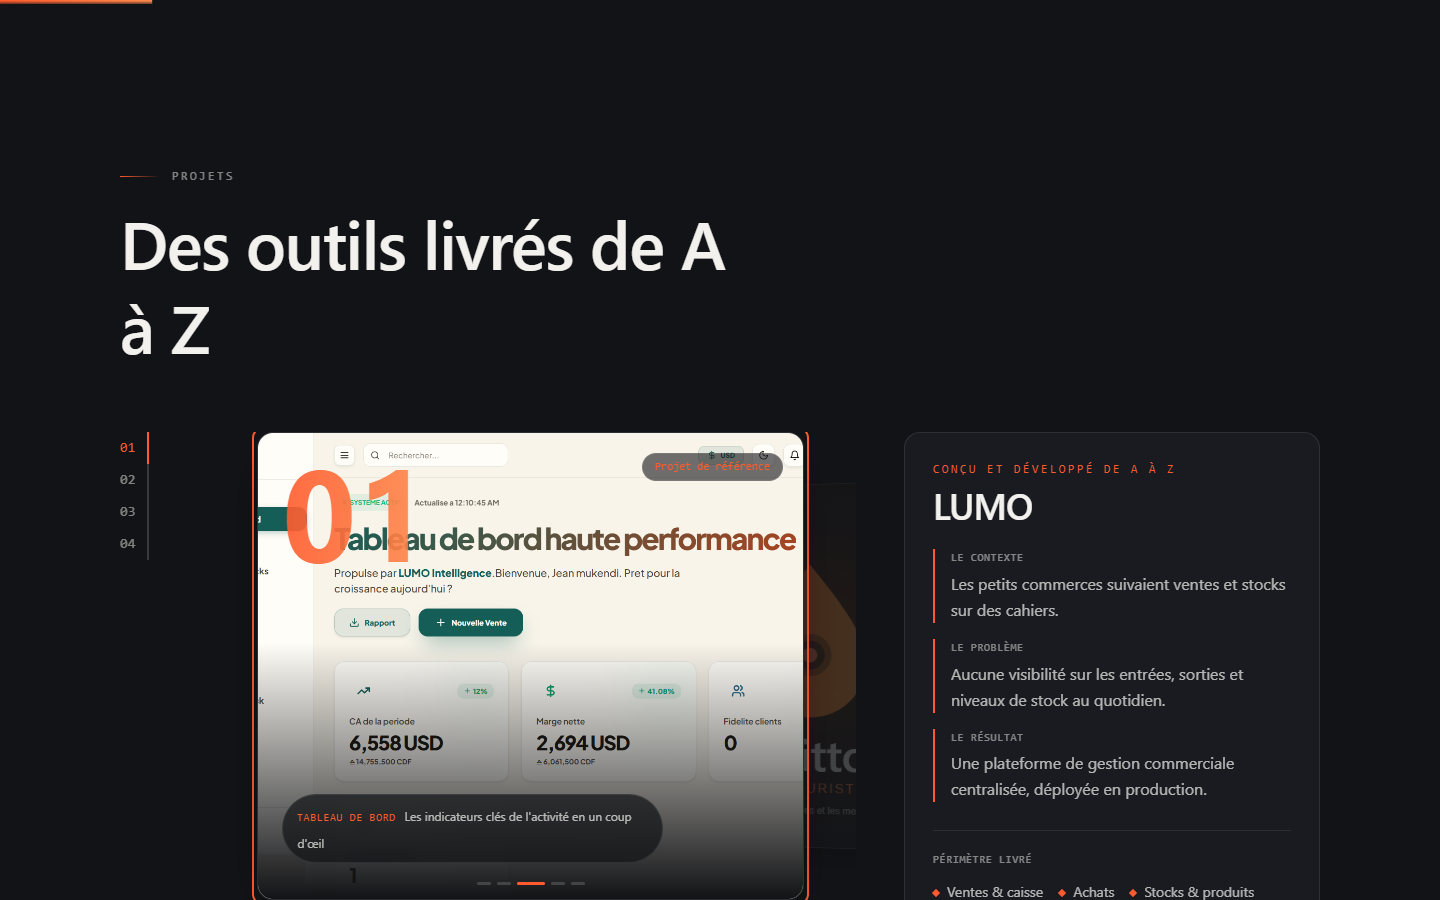
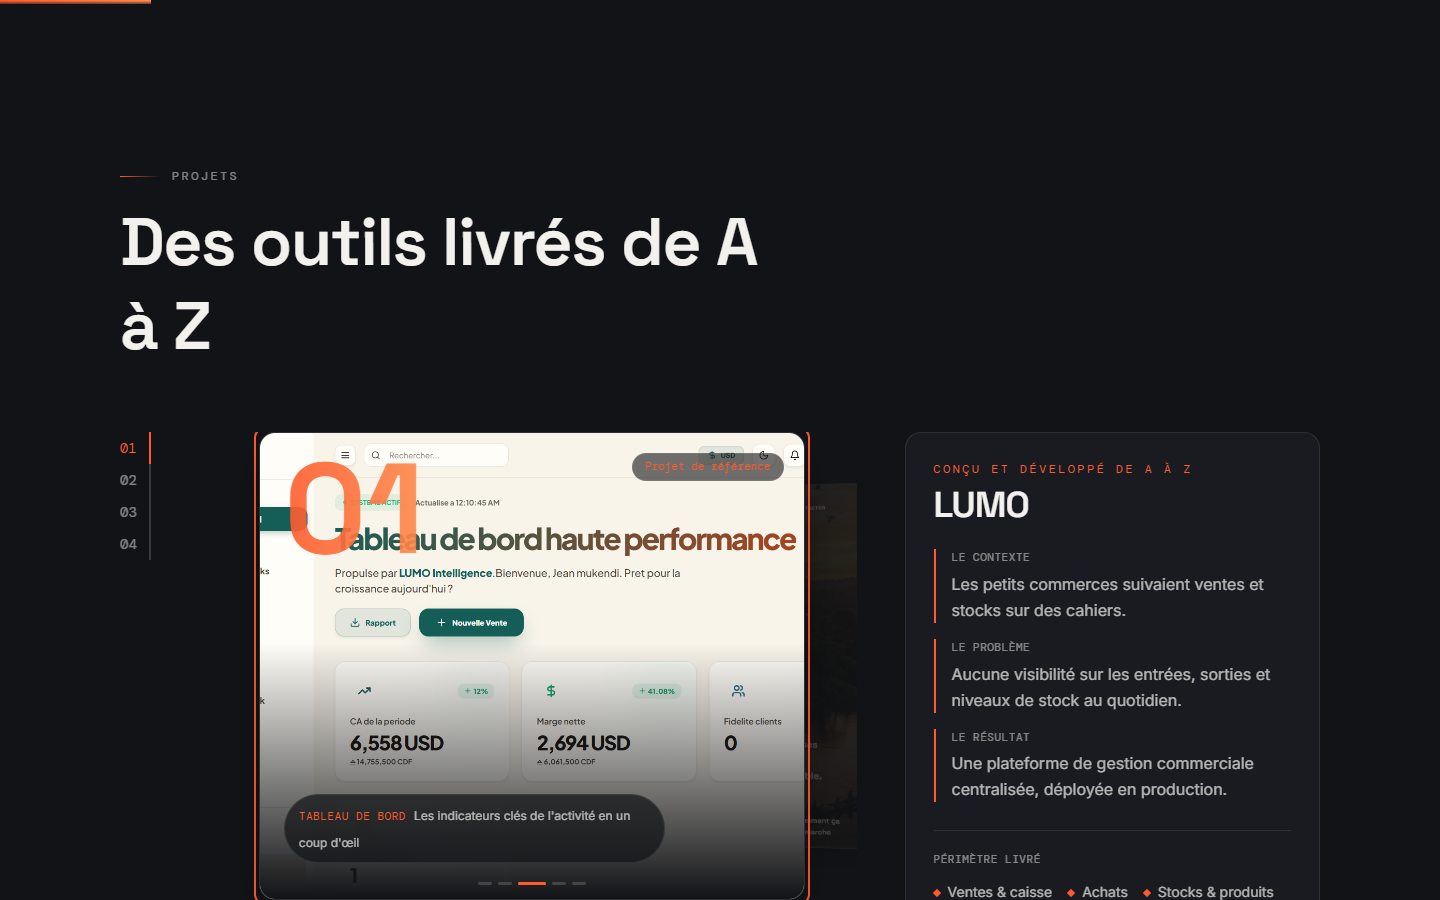
fix(showcase): vues détaillées — overlay en portail + dossier split-screen
Le vrai bug des vues détaillées « nulles » : la section Projets est
enveloppée dans SectionReveal (will-change: transform) — un ancêtre
transformé devient le conteneur des éléments fixed, l'overlay était
donc dimensionné sur la SECTION (1435px mesurés) au lieu du viewport :
fond partiel, panneau flottant, tout défilait avec la section.

- DetailOverlay rendu en PORTAIL React vers document.body : plein écran
  réel (conteneur 900px vérifié), fond total, panel parfaitement centré
- composition repensée : dossier split-screen — média à gauche (remplit
  la hauteur, object-contain lisible en entier, grands chevrons, légende
  + pagination + compteur posés), colonne éditoriale à droite (étude
  01/04, rôle, titre, chips, périmètre en liste fine, CTA, navigation
  projet ↔ projet en bas)
- fix centrage mobile : place-items safe center (sinon le haut du média
  et la fermeture sont inatteignables quand le panneau dépasse l'écran)
- clés React uniques (media-*/info-*), focus gardé une fois (StrictMode),
  Escape, flèches, reduced-motion : tout conservé
- QA : project-qa 15/15 (2 runs stables) + vérifications visuelles
  desktop/mobile du dossier ouvert

diff --git a/src/components/projects/DetailOverlay.jsx b/src/components/projects/DetailOverlay.jsx
@@ -1,21 +1,34 @@
 import { useEffect, useRef } from 'react'
+import { createPortal } from 'react-dom'
 import { AnimatePresence, motion, useReducedMotion } from 'framer-motion'
 
 const EASE = [0.22, 1, 0.36, 1]
 
 /**
- * DetailOverlay — vue détaillée « étude de cas », présentation cinématique.
+ * DetailOverlay — vue détaillée « dossier », split-screen.
  *
- * Continuité spatiale (§36) : le média partage un `layoutId` avec la slide
- * de la scène — l'image cliquée s'agrandit réellement, aucune modale ne
- * « apparaît ». À l'intérieur : média héroïque (62 vh, object-contain pour
- * les interfaces — lisibles en entier), légendes + pagination + compteur
- * sur le média, corps éditorial typographique (zéro boîte dans la boîte),
- * CTA existants, et navigation projet ↔ projet en grands panneaux (§37).
+ * Composition clairement différente : un grand panneau centré, le MÉDIA à
+ * gauche (remplit la hauteur du dossier) et les INFORMATIONS à droite en
+ * colonne éditoriale — comme une page produit, pas une modale empilée.
+ * Mobile : empilé (média en haut, infos en dessous, défilement).
  *
- * Accessibilité : dialog aria-modal, focus posé au bouton fermer puis
+ * Continuité spatiale : le média partage un `layoutId` avec la slide de la
+ * scène — l'image cliquée s'agrandit réellement. À l'intérieur : galerie
+ * complète des vues (object-contain pour les interfaces — lisibles en
+ * entier), légendes + pagination + compteur sur le média, navigation
+ * projet ↔ projet en bas du dossier (§37).
+ *
+ * Accessibilité : dialog aria-modal, focus posé sur la fermeture puis
  * restitué au déclencheur (garde StrictMode), Escape ferme, flèches = vues,
- * scroll verrouillé. Reduced-motion : transitions à 0 (rendu instantané).
+ * scroll verrouillé. Reduced-motion : transitions à 0.
+ * Clés React uniques entre frères (préfixes « media- » et « info- ») :
+ * la réconciliation reste prévisible, l'exit d'AnimatePresence se résout.
+ *
+ * RENDU EN PORTAIL vers document.body : la section Projets est enveloppée
+ * dans SectionReveal qui anime des transforms (will-change) — un ancêtre
+ * transformé devient le conteneur des éléments fixed, l'overlay serait
+ * dimensionné sur la section au lieu du viewport. Le portail le sort de
+ * cet arbre : plein écran réel, fond total.
  */
 export default function DetailOverlay({ projects, idx, view, onView, onGo, onClose, sourceProject }) {
   const reduced = useReducedMotion()
@@ -60,7 +73,7 @@ export default function DetailOverlay({ projects, idx, view, onView, onGo, onClo
   const prevP = projects[(idx - 1 + total) % total]
   const nextP = projects[(idx + 1) % total]
 
-  return (
+  return createPortal(
     <motion.div
       role="dialog"
       aria-modal="true"
@@ -80,37 +93,38 @@ export default function DetailOverlay({ projects, idx, view, onView, onGo, onClo
         aria-hidden="true"
       />
 
-      {/* présentation défilante */}
-      <div className="fixed inset-0 overflow-y-auto overscroll-contain">
-        <div className="mx-auto w-[min(1150px,94vw)] pb-16 pt-[4vh]">
-          {/* barre haute : étude + fermeture */}
-          <div className="flex items-center justify-between gap-4 pb-5">
-            <p className="font-mono text-[11px] uppercase tracking-[0.25em] t-text3">
-              Étude de cas <span className="mx-1 t-accent">{p.n}</span>/ 0{total}
-            </p>
-            <button
-              ref={closeRef}
-              type="button"
-              onClick={onClose}
-              aria-label="Fermer la vue détaillée"
-              className="grid h-11 w-11 place-items-center rounded-full border transition-colors hover:t-accent"
-              style={{ borderColor: 'var(--border-strong)', background: 'color-mix(in srgb, var(--bg) 70%, transparent)', color: 'var(--text)' }}
-            >
-              <i className="fa-solid fa-xmark text-base" aria-hidden="true" />
-            </button>
-          </div>
+      {/* le dossier — « safe center » : le centrage retombe sur « start »
+          quand le contenu dépasse l'écran (mobile), sinon le haut du média
+          et la fermeture deviennent inatteignables (scroll impossible) */}
+      <div className="fixed inset-0 grid [place-items:safe_center] overflow-y-auto overscroll-contain p-3 md:p-8">
+        <motion.div
+          key={'panel-' + p.n}
+          initial={{ opacity: 0, y: reduced ? 0 : 26 }}
+          animate={{ opacity: 1, y: 0 }}
+          exit={{ opacity: 0 }}
+          transition={{ duration: 0.45, ease: EASE }}
+          className="relative grid h-[min(88vh,780px)] w-full max-w-[1100px] grid-rows-[auto_1fr] overflow-hidden rounded-3xl border-[1.5px] t-border t-surface t-shadow-lg max-lg:h-auto max-lg:max-h-none lg:grid-cols-[1.15fr_0.85fr] lg:grid-rows-1"
+        >
+          {/* fermeture — flotte au-dessus du dossier, toujours accessible */}
+          <button
+            ref={closeRef}
+            type="button"
+            onClick={onClose}
+            aria-label="Fermer la vue détaillée"
+            className="absolute right-4 top-4 z-[4] grid h-11 w-11 place-items-center rounded-full border backdrop-blur-md transition-colors hover:t-accent"
+            style={{ borderColor: 'var(--border-strong)', background: 'color-mix(in srgb, var(--bg) 68%, transparent)', color: 'var(--text)' }}
+          >
+            <i className="fa-solid fa-xmark text-base" aria-hidden="true" />
+          </button>
 
-          {/* média cinématique — cible du FLIP (uniquement pour le projet
-              d'origine : changer de projet DANS la vue donne une transition
-              slide, pas un vol parasite) */}
+          {/* MÉDIA — à gauche (desktop) / en haut (mobile) ; cible du FLIP */}
           <motion.div
-            key={p.n}
+            key={'media-' + p.n}
             layoutId={p.n === sourceProject ? 'project-media-' + p.n : undefined}
-            initial={p.n === sourceProject ? { opacity: 0.5 } : { opacity: 0, x: reduced ? 0 : 42 }}
-            animate={{ opacity: 1, x: 0 }}
-            exit={p.n === sourceProject ? undefined : { opacity: 0, x: reduced ? 0 : 28 }}
+            initial={p.n === sourceProject ? { opacity: 0.5 } : { opacity: 0 }}
+            animate={{ opacity: 1 }}
             transition={{ duration: reduced ? 0 : 0.5, ease: EASE }}
-            className="group relative h-[62vh] min-h-[420px] overflow-hidden rounded-3xl border-[1.5px] t-border t-surface t-shadow-lg"
+            className="group relative h-[46vh] min-h-[300px] overflow-hidden max-lg:rounded-b-none lg:h-auto lg:min-h-0"
           >
             <div className="absolute inset-0 transition-transform duration-[900ms] ease-out group-hover:scale-[1.02]">
               <AnimatePresence mode="popLayout" initial={false}>
@@ -119,42 +133,40 @@ export default function DetailOverlay({ projects, idx, view, onView, onGo, onClo
                   src={v.src}
                   alt={p.alt}
                   draggable={false}
-                  initial={{ opacity: 0, x: 34 }}
+                  initial={{ opacity: 0, x: 30 }}
                   animate={{ opacity: 1, x: 0 }}
-                  exit={{ opacity: 0, x: -34 }}
+                  exit={{ opacity: 0, x: -30 }}
                   transition={{ duration: reduced ? 0 : 0.34, ease: EASE }}
                   className={
                     'absolute inset-0 h-full w-full ' +
-                    (v.fit === 'contain' ? 'object-contain p-5 md:p-9' : 'object-cover object-top')
+                    (v.fit === 'contain' ? 'object-contain p-4 md:p-7' : 'object-cover object-top')
                   }
                 />
               </AnimatePresence>
             </div>
 
-            {/* dégradé de lisibilité en bas du média */}
-            <div className="absolute inset-x-0 bottom-0 h-40" style={{ background: 'linear-gradient(180deg, transparent, var(--bg) 92%)' }} aria-hidden="true" />
+            {/* dégradé de lisibilité + chrome de galerie */}
+            <div className="absolute inset-x-0 bottom-0 h-32" style={{ background: 'linear-gradient(180deg, transparent, var(--bg) 92%)' }} aria-hidden="true" />
 
-            {/* chevrons de vues — toujours visibles : c'est une galerie */}
             {vs.length > 1 &&
               [
-                { label: 'Vue précédente', fn: () => onView((view - 1 + vs.length) % vs.length), icon: 'fa-chevron-left', pos: 'left-4' },
-                { label: 'Vue suivante', fn: () => onView((view + 1) % vs.length), icon: 'fa-chevron-right', pos: 'right-4' },
+                { label: 'Vue précédente', fn: () => onView((view - 1 + vs.length) % vs.length), icon: 'fa-chevron-left', pos: 'left-3' },
+                { label: 'Vue suivante', fn: () => onView((view + 1) % vs.length), icon: 'fa-chevron-right', pos: 'right-3' },
               ].map((b) => (
                 <button
                   key={b.label}
                   type="button"
                   onClick={b.fn}
                   aria-label={b.label}
-                  className={`absolute ${b.pos} top-1/2 z-[2] grid h-12 w-12 -translate-y-1/2 place-items-center rounded-full border backdrop-blur-md transition-all duration-300 hover:scale-105 hover:t-accent focus-visible:outline-2 focus-visible:outline-[var(--accent)] max-md:opacity-90`}
+                  className={`absolute ${b.pos} top-1/2 z-[2] grid h-11 w-11 -translate-y-1/2 place-items-center rounded-full border backdrop-blur-md transition-all duration-300 hover:scale-105 hover:t-accent focus-visible:outline-2 focus-visible:outline-[var(--accent)] max-md:opacity-90`}
                   style={{ borderColor: 'var(--border-strong)', background: 'color-mix(in srgb, var(--bg) 55%, transparent)', color: 'var(--text)' }}
                 >
                   <i className={`fa-solid ${b.icon}`} aria-hidden="true" />
                 </button>
               ))}
 
-            {/* légende + pagination + compteur, posés sur le média */}
             {vs.length > 1 && (
-              <div className="absolute inset-x-0 bottom-0 z-[2] flex items-end justify-between gap-6 p-5 md:p-7">
+              <div className="absolute inset-x-0 bottom-0 z-[2] flex items-end justify-between gap-5 p-4 md:p-5">
                 <AnimatePresence mode="wait" initial={false}>
                   <motion.div
                     key={v.label}
@@ -166,10 +178,10 @@ export default function DetailOverlay({ projects, idx, view, onView, onGo, onClo
                     className="min-w-0"
                   >
                     <span className="font-mono text-[11px] uppercase tracking-[0.18em] t-accent">{v.label}</span>
-                    <p className="mt-1 truncate text-[14px] t-text2">{v.note}</p>
+                    <p className="mt-0.5 truncate text-[13px] t-text2">{v.note}</p>
                   </motion.div>
                 </AnimatePresence>
-                <div className="flex shrink-0 flex-col items-end gap-2">
+                <div className="flex shrink-0 flex-col items-end gap-1.5">
                   <div className="flex items-center gap-1.5" aria-hidden="true">
                     {vs.map((_, i) => (
                       <button
@@ -178,7 +190,7 @@ export default function DetailOverlay({ projects, idx, view, onView, onGo, onClo
                         tabIndex={-1}
                         onClick={() => onView(i)}
                         data-testid={`view-seg-${i}`}
-                        className={`h-[3px] rounded-full transition-all duration-300 ${i === view ? 'w-8' : 'w-4 hover:w-6'}`}
+                        className={`h-[3px] rounded-full transition-all duration-300 ${i === view ? 'w-7' : 'w-4 hover:w-6'}`}
                         style={{ background: i === view ? 'var(--accent)' : 'var(--border-strong)' }}
                       />
                     ))}
@@ -191,76 +203,77 @@ export default function DetailOverlay({ projects, idx, view, onView, onGo, onClo
             )}
           </motion.div>
 
-          {/* corps éditorial — typographique, zéro boîte dans la boîte */}
+          {/* INFORMATIONS — colonne éditoriale à droite, défile si besoin */}
           <motion.div
-            key={'panel-' + p.n}
-            initial={{ opacity: 0, y: reduced ? 0 : 20 }}
-            animate={{ opacity: 1, y: 0 }}
-            transition={{ duration: 0.5, ease: EASE, delay: reduced ? 0 : 0.18 }}
-            className="mt-10 grid gap-10 lg:grid-cols-[1.15fr_0.85fr] lg:gap-14"
+            key={'info-' + p.n}
+            initial={{ opacity: 0, x: reduced ? 0 : 28 }}
+            animate={{ opacity: 1, x: 0 }}
+            transition={{ duration: 0.5, ease: EASE, delay: reduced ? 0 : 0.14 }}
+            className="flex min-h-0 flex-col overflow-y-auto p-6 md:p-9 max-lg:rounded-t-none"
           >
-            <div>
-              <p className="font-mono text-xs uppercase tracking-[0.2em] t-coral">{p.role}</p>
-              <h2 className="mt-3 font-display text-[clamp(2.4rem,5vw,3.6rem)] font-semibold leading-[1.05] tracking-tight t-text" style={{ letterSpacing: '-0.02em' }}>
-                {p.title}
-              </h2>
-              <p className="mt-6 text-lg leading-relaxed t-text2">{p.result}</p>
-              <div className="mt-7 flex flex-wrap gap-2">
-                {p.stack.map((s) => (
-                  <span key={s} className="rounded-full border px-3 py-1 font-mono text-[12px] t-text2" style={{ borderColor: 'var(--border)' }}>{s}</span>
-                ))}
-              </div>
+            <p className="font-mono text-[11px] uppercase tracking-[0.25em] t-text3">
+              Étude de cas <span className="mx-1 t-accent">{p.n}</span>/ 0{total}
+            </p>
+
+            <p className="mt-7 font-mono text-xs uppercase tracking-[0.2em] t-coral">{p.role}</p>
+            <h2 className="mt-2 font-display text-[clamp(2rem,3.4vw,3rem)] font-semibold leading-[1.05] tracking-tight t-text" style={{ letterSpacing: '-0.02em' }}>
+              {p.title}
+            </h2>
+            <p className="mt-5 leading-relaxed t-text2">{p.result}</p>
+
+            <div className="mt-6 flex flex-wrap gap-2">
+              {p.stack.map((s) => (
+                <span key={s} className="rounded-full border px-3 py-1 font-mono text-[12px] t-text2" style={{ borderColor: 'var(--border)' }}>{s}</span>
+              ))}
             </div>
-            <div>
+
+            <div className="mt-8">
               <p className="font-mono text-[11px] uppercase tracking-[0.25em] t-text3">Périmètre livré</p>
-              <ul className="mt-2">
+              <ul className="mt-1">
                 {p.scope.map((s) => (
-                  <li key={s} className="flex items-center gap-3 border-b py-3 text-[15px] t-text2" style={{ borderColor: 'var(--border)' }}>
+                  <li key={s} className="flex items-center gap-3 border-b py-2.5 text-[15px] t-text2" style={{ borderColor: 'var(--border)' }}>
                     <span aria-hidden="true" className="h-1.5 w-1.5 shrink-0 rotate-45" style={{ background: 'var(--accent)' }} />
                     {s}
                   </li>
                 ))}
               </ul>
-              <a
-                href={p.href}
-                target={p.external ? '_blank' : undefined}
-                rel={p.external ? 'noreferrer' : undefined}
-                data-cursor={p.external ? 'Ouvrir' : 'Découvrir'}
-                className="cta-glow mt-8 inline-flex items-center gap-2 rounded-full px-7 py-3.5 font-medium text-white hover:brightness-110"
-                style={{ background: 'var(--flame)' }}
+            </div>
+
+            <a
+              href={p.href}
+              target={p.external ? '_blank' : undefined}
+              rel={p.external ? 'noreferrer' : undefined}
+              data-cursor={p.external ? 'Ouvrir' : 'Découvrir'}
+              className="cta-glow mt-8 inline-flex shrink-0 items-center gap-2 self-start rounded-full px-7 py-3.5 font-medium text-white hover:brightness-110"
+              style={{ background: 'var(--flame)' }}
+            >
+              {p.cta}
+              <i className="fa-solid fa-arrow-right text-sm" aria-hidden="true" />
+            </a>
+
+            {/* navigation projet ↔ projet — en bas du dossier */}
+            <div className="mt-auto grid grid-cols-2 gap-3 pt-8 max-lg:mt-8">
+              <button
+                type="button"
+                onClick={() => onGo(idx - 1)}
+                className="group flex min-w-0 flex-col items-start gap-0.5 rounded-xl px-3 py-2.5 text-left transition-colors hover:bg-[var(--surface-2)]"
               >
-                {p.cta}
-                <i className="fa-solid fa-arrow-right text-sm" aria-hidden="true" />
-              </a>
+                <span className="font-mono text-[10px] uppercase tracking-[0.2em] t-text3 transition-colors group-hover:t-accent">← Précédent</span>
+                <span className="truncate font-display text-lg font-medium t-text2 transition-all duration-300 group-hover:translate-x-1 group-hover:t-accent">{prevP.title}</span>
+              </button>
+              <button
+                type="button"
+                onClick={() => onGo(idx + 1)}
+                className="group flex min-w-0 flex-col items-end gap-0.5 rounded-xl px-3 py-2.5 text-right transition-colors hover:bg-[var(--surface-2)]"
+              >
+                <span className="font-mono text-[10px] uppercase tracking-[0.2em] t-text3 transition-colors group-hover:t-accent">Suivant →</span>
+                <span className="truncate font-display text-lg font-medium t-text2 transition-all duration-300 group-hover:-translate-x-1 group-hover:t-accent">{nextP.title}</span>
+              </button>
             </div>
           </motion.div>
-
-          {/* navigation projet ↔ projet — grands panneaux, la galerie continue */}
-          <motion.div
-            initial={{ opacity: 0 }}
-            animate={{ opacity: 1 }}
-            transition={{ delay: reduced ? 0 : 0.35, duration: 0.4 }}
-            className="mt-14 grid grid-cols-2 gap-4 border-t pt-7 t-border"
-          >
-            <button
-              type="button"
-              onClick={() => onGo(idx - 1)}
-              className="group flex min-w-0 flex-col items-start gap-1.5 rounded-2xl px-4 py-4 text-left transition-colors hover:bg-[var(--surface-2)]"
-            >
-              <span className="font-mono text-[10px] uppercase tracking-[0.2em] t-text3 transition-colors group-hover:t-accent">← Précédent</span>
-              <span className="truncate font-display text-2xl font-medium t-text2 transition-all duration-300 group-hover:translate-x-1 group-hover:t-accent">{prevP.title}</span>
-            </button>
-            <button
-              type="button"
-              onClick={() => onGo(idx + 1)}
-              className="group flex min-w-0 flex-col items-end gap-1.5 rounded-2xl px-4 py-4 text-right transition-colors hover:bg-[var(--surface-2)]"
-            >
-              <span className="font-mono text-[10px] uppercase tracking-[0.2em] t-text3 transition-colors group-hover:t-accent">Suivant →</span>
-              <span className="truncate font-display text-2xl font-medium t-text2 transition-all duration-300 group-hover:-translate-x-1 group-hover:t-accent">{nextP.title}</span>
-            </button>
-          </motion.div>
-        </div>
+        </motion.div>
       </div>
-    </motion.div>
+    </motion.div>,
+    document.body
   )
 }
